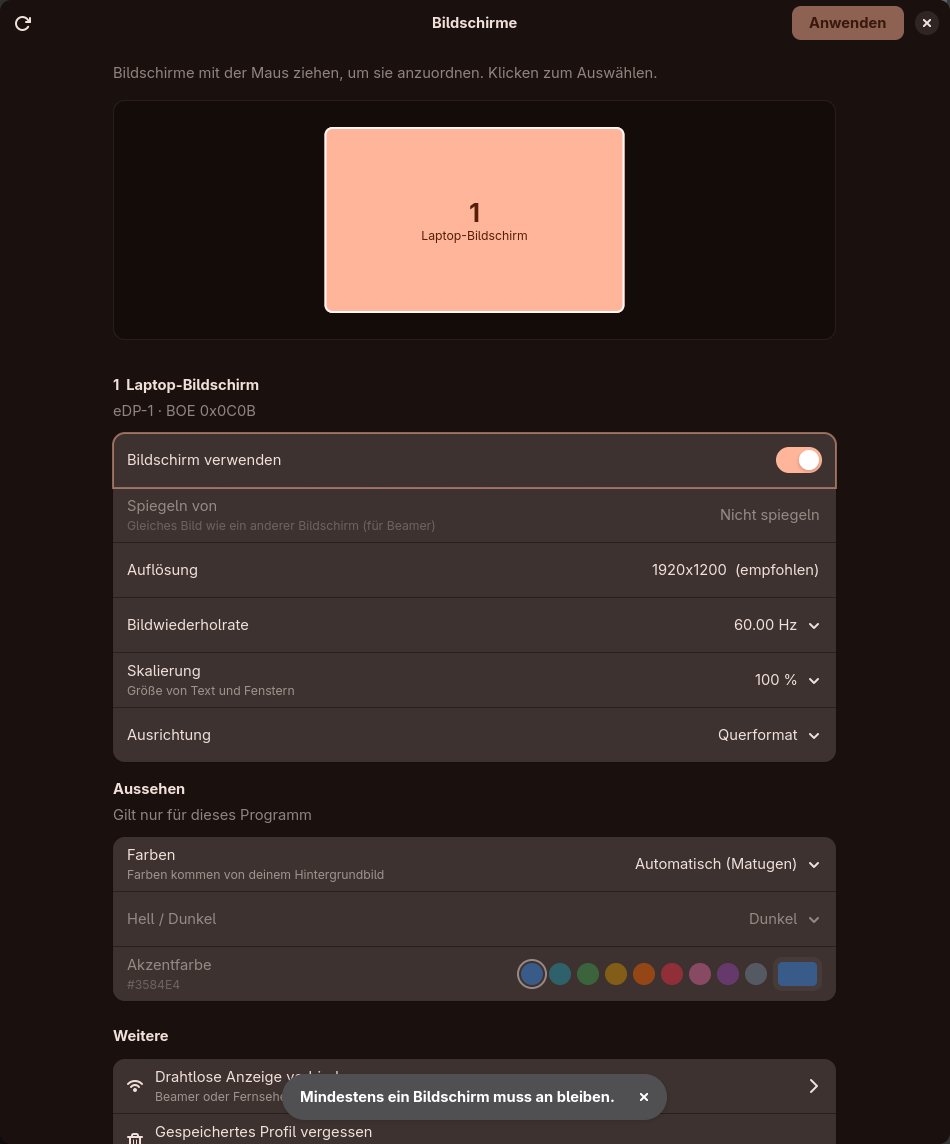
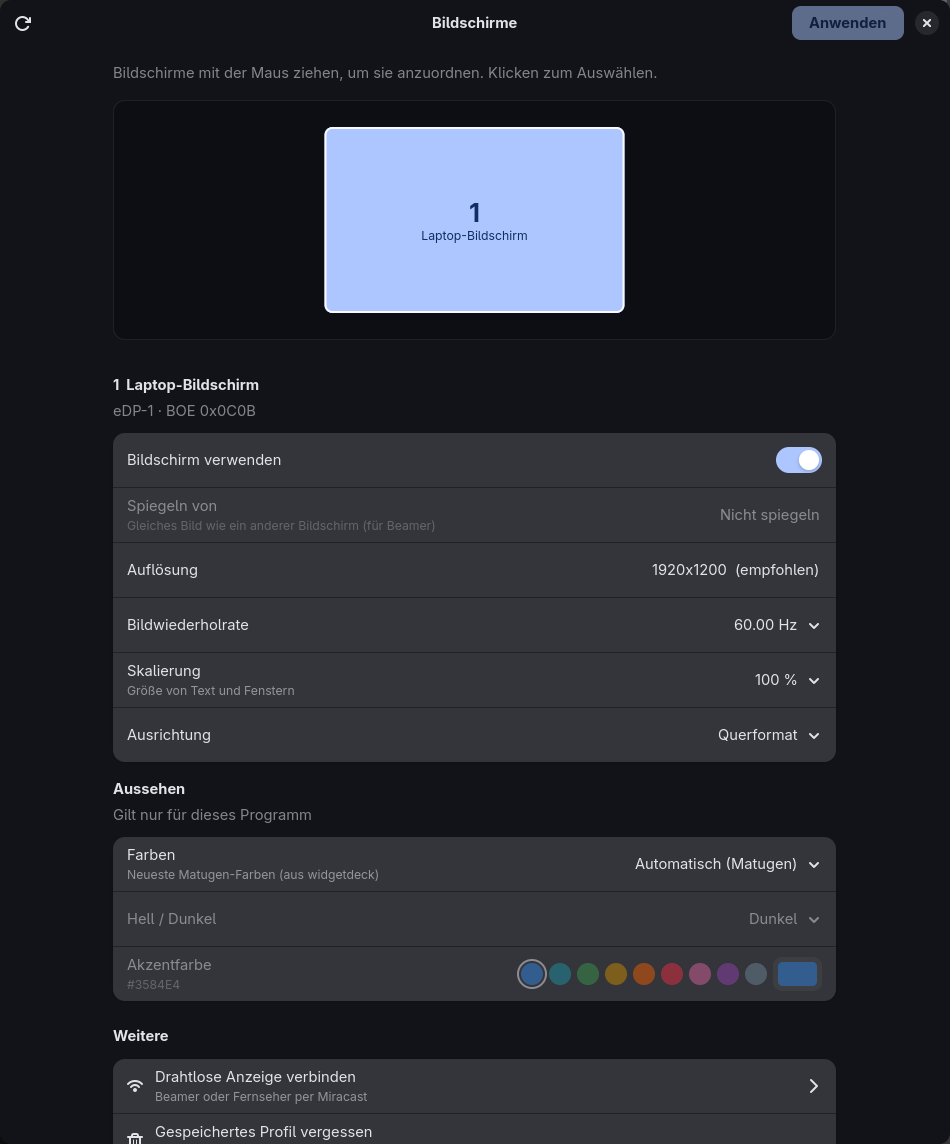
Fix: Menü-Endlosschleife, Theme folgt neuester Matugen-Datei

diff --git a/window_display/theme.py b/window_display/theme.py
@@ -9,6 +9,24 @@ from .profiles import CONFIG_DIR
 
 SETTINGS_FILE = CONFIG_DIR / "settings.json"
 MATUGEN_CSS = Path.home() / ".cache" / "matugen" / "colors-gtk.css"
+# Material-You JSON written by other Matugen templates (e.g. widgetdeck's own theme run).
+# In "auto" mode the newest of all sources wins, so the app matches what the desktop shows now.
+MATUGEN_JSON = [Path.home() / ".config" / "widgetdeck" / "theme.json"]
+
+# Same mapping as the usual Matugen gtk.css template (Material role -> GTK named color)
+MATERIAL_TO_GTK = {
+    "theme_bg_color": "surface", "theme_fg_color": "on_surface",
+    "window_bg_color": "surface", "window_fg_color": "on_surface",
+    "view_bg_color": "surface_container_lowest", "view_fg_color": "on_surface",
+    "sidebar_bg_color": "surface_container_low", "sidebar_fg_color": "on_surface_variant",
+    "sidebar_backdrop_color": "surface_container_low",
+    "headerbar_bg_color": "surface_container", "headerbar_fg_color": "on_surface",
+    "popover_bg_color": "surface_container_high", "popover_fg_color": "on_surface",
+    "dialog_bg_color": "surface_container_high", "dialog_fg_color": "on_surface",
+    "accent_color": "primary", "accent_bg_color": "primary", "accent_fg_color": "on_primary",
+    "destructive_color": "error", "destructive_bg_color": "error", "destructive_fg_color": "on_error",
+    "card_bg_color": "surface_container_highest", "card_fg_color": "on_surface",
+}
 
 DEFAULTS = {"theme": "auto", "scheme": "dark", "accent": "#3584e4"}
 SCHEMES = ["system", "light", "dark"]
@@ -69,14 +87,44 @@ def save(cfg: dict) -> None:
     os.replace(tmp, SETTINGS_FILE)
 
 
-def matugen_active() -> bool:
-    if not MATUGEN_CSS.exists():
-        return False
-    gtk_css = Path.home() / ".config" / "gtk-4.0" / "gtk.css"
+def _material_palette(path: Path) -> tuple[dict, str] | None:
+    """(colors, "dark"|"light") from a Material-You JSON, or None if unusable."""
     try:
-        return "matugen" in gtk_css.read_text()
-    except OSError:
-        return False
+        data = json.loads(path.read_text())
+    except (OSError, ValueError):
+        return None
+    mode = data.get("mode") if data.get("mode") in ("dark", "light") else "dark"
+    colors = data.get(mode) or data.get("colors", {}).get(mode)
+    if not isinstance(colors, dict) or not all(_is_hex(colors.get(r, "")) for r in set(MATERIAL_TO_GTK.values())):
+        return None
+    return colors, mode
+
+
+def auto_source() -> Path | None:
+    """Newest Matugen output we can use (GTK css or Material JSON)."""
+    candidates = [p for p in MATUGEN_JSON if p.exists() and _material_palette(p)]
+    if MATUGEN_CSS.exists():
+        candidates.append(MATUGEN_CSS)
+    return max(candidates, key=lambda p: p.stat().st_mtime, default=None)
+
+
+def auto_label() -> str:
+    src = auto_source()
+    if src is None:
+        return "Folgt dem System-Theme"
+    origin = src.parent.name if src.suffix == ".json" else "GTK"
+    return f"Neueste Matugen-Farben (aus {origin})"
+
+
+def matugen_active() -> bool:
+    return auto_source() is not None
+
+
+def material_css(colors: dict) -> str:
+    defines = "\n".join(f"@define-color {g} {colors[m]};" for g, m in MATERIAL_TO_GTK.items())
+    variables = "\n".join(f"  --{g.removesuffix('_color').replace('_', '-')}-color: {colors[m]};"
+                           for g, m in MATERIAL_TO_GTK.items() if not g.startswith("theme_"))
+    return f"{defines}\n:root {{\n{variables}\n}}\n"
 
 
 def _is_hex(text: str) -> bool:
@@ -114,12 +162,12 @@ def custom_css(accent: str, dark: bool) -> str:
 # ------------------------------------------------------------------ GTK side
 
 _provider = None
-_monitor = None
+_monitors: list = []
 
 
 def apply(display=None) -> None:
     """(Re)apply the configured appearance to all windows of this process."""
-    global _provider, _monitor
+    global _provider
     from .ui import Adw, Gdk, Gio, Gtk
 
     display = display or Gdk.Display.get_default()
@@ -138,13 +186,23 @@ def apply(display=None) -> None:
         _provider = Gtk.CssProvider()
         _provider.load_from_string(custom_css(cfg["accent"], style.get_dark()))
     else:
-        style.set_color_scheme(Adw.ColorScheme.DEFAULT)
-        if matugen_active():
-            # Load Matugen's colors ourselves too, so a wallpaper change shows up live.
+        source = auto_source()
+        palette = _material_palette(source) if source and source.suffix == ".json" else None
+        if palette:
+            colors, mode = palette
+            style.set_color_scheme(Adw.ColorScheme.FORCE_DARK if mode == "dark" else Adw.ColorScheme.FORCE_LIGHT)
             _provider = Gtk.CssProvider()
-            _provider.load_from_path(str(MATUGEN_CSS))
-            if _monitor is None:
-                _monitor = Gio.File.new_for_path(str(MATUGEN_CSS)).monitor_file(Gio.FileMonitorFlags.NONE, None)
-                _monitor.connect("changed", lambda *_a: load()["theme"] == "auto" and apply(display))
+            _provider.load_from_string(material_css(colors))
+        else:
+            style.set_color_scheme(Adw.ColorScheme.DEFAULT)
+            if source is not None:
+                _provider = Gtk.CssProvider()
+                _provider.load_from_path(str(source))
+        # Watch all Matugen outputs, so a wallpaper/theme change shows up live.
+        if not _monitors:
+            for path in [MATUGEN_CSS, *MATUGEN_JSON]:
+                mon = Gio.File.new_for_path(str(path)).monitor_file(Gio.FileMonitorFlags.NONE, None)
+                mon.connect("changed", lambda *_a: load()["theme"] == "auto" and apply(display))
+                _monitors.append(mon)
     if _provider is not None:
         Gtk.StyleContext.add_provider_for_display(display, _provider, priority)

diff --git a/tests/test_gnome.py b/tests/test_gnome.py
@@ -93,5 +93,43 @@ class TestTheme(unittest.TestCase):
         self.assertIn("--accent-bg-color: #3a944a;", css)
 
 
+class TestAutoSource(unittest.TestCase):
+    """Auto mode must pick the newest Matugen output (widgetdeck JSON vs. GTK css)."""
+
+    def setUp(self):
+        import json, os, tempfile
+        from pathlib import Path
+        self.tmp = Path(tempfile.mkdtemp())
+        self.css = self.tmp / "colors-gtk.css"
+        self.css.write_text("@define-color accent_bg_color #ffb599;")
+        roles = set(theme.MATERIAL_TO_GTK.values())
+        self.json = self.tmp / "theme.json"
+        self.json.write_text(json.dumps({"mode": "dark", "dark": {r: "#adc6ff" for r in roles}}))
+        self.saved = theme.MATUGEN_CSS, theme.MATUGEN_JSON
+        theme.MATUGEN_CSS, theme.MATUGEN_JSON = self.css, [self.json]
+        self.os = os
+
+    def tearDown(self):
+        theme.MATUGEN_CSS, theme.MATUGEN_JSON = self.saved
+
+    def test_newest_wins(self):
+        self.os.utime(self.css, (1000, 1000))
+        self.os.utime(self.json, (2000, 2000))
+        self.assertEqual(theme.auto_source(), self.json)
+        self.os.utime(self.css, (3000, 3000))
+        self.assertEqual(theme.auto_source(), self.css)
+
+    def test_broken_json_ignored(self):
+        self.json.write_text("{kaputt")
+        self.assertEqual(theme.auto_source(), self.css)
+
+    def test_material_mapping(self):
+        colors, mode = theme._material_palette(self.json)
+        css = theme.material_css(colors)
+        self.assertEqual(mode, "dark")
+        self.assertIn("@define-color accent_bg_color #adc6ff;", css)
+        self.assertIn("--window-bg-color: #adc6ff;", css)
+
+
 if __name__ == "__main__":
     unittest.main()

diff --git a/window_display/settings.py b/window_display/settings.py
@@ -367,8 +367,7 @@ class SettingsWindow(Adw.ApplicationWindow):
         cfg = theme.load()
         group = Adw.PreferencesGroup(title="Aussehen", description="Gilt nur für dieses Programm")
         auto_name = "Automatisch (Matugen)" if theme.matugen_active() else "Automatisch (System)"
-        auto_sub = ("Farben kommen von deinem Hintergrundbild" if theme.matugen_active()
-                    else "Folgt dem System-Theme")
+        auto_sub = theme.auto_label()
         self.theme_row = _combo("Farben", [auto_name, "Selbst einstellen"],
                                 0 if cfg["theme"] == "auto" else 1, self._on_theme_mode)
         self.theme_row.set_subtitle(auto_sub if cfg["theme"] == "auto" else "Eigene Farben")
@@ -434,9 +433,7 @@ class SettingsWindow(Adw.ApplicationWindow):
 
     def _on_theme_mode(self, idx: int):
         mode = "auto" if idx == 0 else "custom"
-        self.theme_row.set_subtitle("Eigene Farben" if mode == "custom" else
-                                    ("Farben kommen von deinem Hintergrundbild" if theme.matugen_active()
-                                     else "Folgt dem System-Theme"))
+        self.theme_row.set_subtitle("Eigene Farben" if mode == "custom" else theme.auto_label())
         self._update_theme(theme=mode)
 
     def _on_scheme(self, idx: int):

diff --git a/window_display/quickmenu.py b/window_display/quickmenu.py
@@ -119,7 +119,7 @@ class MenuWindow(Gtk.Window):
     # -------------------------------------------------------------- actions
     def _focus_initial(self):
         target = self.tiles.get(self.current or "pc_only") or self.tiles["pc_only"]
-        GLib.idle_add(target.grab_focus)
+        GLib.idle_add(lambda: (target.grab_focus(), False)[1])  # False = run once
 
     def cycle(self):
         """Super+P pressed again: move to the next usable option."""
